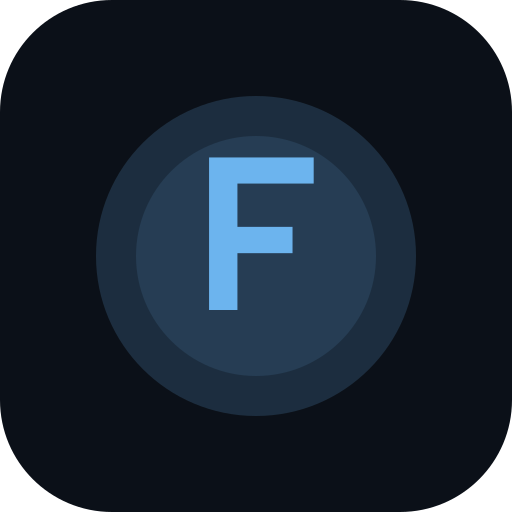
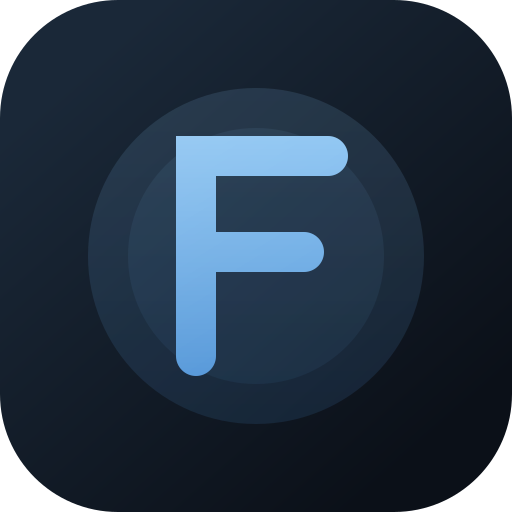
changes

diff --git a/src/components/CountdownView.tsx b/src/components/CountdownView.tsx
@@ -2,6 +2,7 @@ import type { Feriado } from '../types/feriado'
 import { capitalize, formatLongDate, parseFeriadoDate } from '../utils/dates'
 import { getCountdownSnapshot } from '../utils/countdown'
 import { TIPO_LABELS } from '../utils/feriados'
+import { Logo } from './Logo'
 
 interface CountdownViewProps {
   feriados: Feriado[]
@@ -12,8 +13,11 @@ export function CountdownView({ feriados }: CountdownViewProps) {
 
   if (!snapshot) {
     return (
-      <div className="flex flex-1 flex-col items-center justify-center px-6 pt-16 text-center">
-        <p className="text-lg text-app-muted">No hay más feriados cargados para este período.</p>
+      <div className="flex flex-1 flex-col items-center justify-center px-4 pt-20 text-center sm:px-6">
+        <Logo size="md" className="mb-8" />
+        <p className="text-base text-app-muted sm:text-lg">
+          No hay más feriados cargados para este período.
+        </p>
       </div>
     )
   }
@@ -22,31 +26,31 @@ export function CountdownView({ feriados }: CountdownViewProps) {
   const displayFeriado = feriados.find((f) => f.fecha === snapshot.feriadoFecha)
 
   return (
-    <div className="flex flex-1 flex-col px-6 pb-4 pt-16">
-      <header className="mb-10 text-center">
-        <p className="text-xs font-semibold uppercase tracking-[0.2em] text-celeste-soft">
-          Feriadapp
-        </p>
-        <h1 className="mt-2 text-lg font-medium text-app-muted">
+    <div className="flex flex-1 flex-col px-4 pb-4 pt-[max(4.5rem,calc(env(safe-area-inset-top)+3.5rem))] sm:px-6">
+      <header className="mx-auto mb-8 flex w-full max-w-sm flex-col items-center text-center sm:mb-10">
+        <Logo size="md" />
+        <h1 className="mt-5 text-base font-medium text-app-muted sm:text-lg">
           {snapshot.isToday ? 'Hoy es feriado' : 'Próximo feriado'}
         </h1>
       </header>
 
       <section className="flex flex-1 flex-col items-center justify-center">
-        <div className="relative flex h-48 w-48 items-center justify-center">
-          <div className="absolute inset-0 rounded-full bg-celeste/10 blur-2xl" />
+        <div className="relative flex aspect-square w-[min(72vw,16rem)] max-w-xs items-center justify-center sm:w-64">
+          <div className="absolute inset-[8%] rounded-full bg-celeste/10 blur-3xl" />
           <div className="relative text-center">
-            <span className="tabular-nums text-[5.5rem] font-extrabold leading-none tracking-tight text-app">
+            <span className="tabular-nums text-[clamp(3.75rem,22vw,5.75rem)] font-extrabold leading-none tracking-tight text-app">
               {snapshot.days}
             </span>
-            <p className="mt-2 text-sm font-medium uppercase tracking-widest text-app-muted">
+            <p className="mt-2 text-xs font-medium uppercase tracking-[0.25em] text-app-muted sm:text-sm">
               {snapshot.days === 1 ? 'día' : 'días'}
             </p>
           </div>
         </div>
 
-        <div className="mt-10 w-full max-w-sm rounded-3xl border border-app bg-app-elevated/80 p-6 text-center backdrop-blur-sm">
-          <p className="text-lg font-semibold leading-snug text-app">{snapshot.feriadoNombre}</p>
+        <div className="mt-8 w-full max-w-sm rounded-3xl border border-app bg-app-elevated/80 p-5 text-center backdrop-blur-sm sm:mt-10 sm:p-6">
+          <p className="text-base font-semibold leading-snug text-app sm:text-lg">
+            {snapshot.feriadoNombre}
+          </p>
           <p className="mt-2 text-sm capitalize text-app-muted">
             {capitalize(formatLongDate(feriadoDate))}
           </p>
@@ -59,7 +63,7 @@ export function CountdownView({ feriados }: CountdownViewProps) {
       </section>
 
       {!snapshot.isToday && (
-        <p className="mt-8 text-center text-xs text-app-muted/80">
+        <p className="mt-6 text-center text-[11px] text-app-muted/70 sm:mt-8 sm:text-xs">
           Datos oficiales según calendario nacional argentino
         </p>
       )}

diff --git a/src/components/InstallPrompt.tsx b/src/components/InstallPrompt.tsx
@@ -1,63 +1,32 @@
 import { usePwaInstall } from '../hooks/usePwaInstall'
-import {
-  getAndroidBrowserInstallSteps,
-  getIosInstallSteps,
-  isMobileBrowser,
-} from '../utils/pwa'
+import { isMobileBrowser } from '../utils/pwa'
 
 export function InstallPrompt() {
   const { showPrompt, isIos, install, dismiss } = usePwaInstall()
 
   if (!showPrompt) return null
 
-  const steps = isIos ? getIosInstallSteps() : getAndroidBrowserInstallSteps()
-  const title = isMobileBrowser()
-    ? 'Agregá Feriadapp a tu pantalla de inicio'
-    : 'Instalá Feriadapp como app'
-
   return (
-    <section className="mx-6 mb-4 overflow-hidden rounded-3xl border border-celeste/30 bg-gradient-to-br from-celeste/15 to-app-elevated/90 p-5 backdrop-blur-sm">
-      <div className="flex items-start gap-3">
-        <div className="flex h-10 w-10 shrink-0 items-center justify-center rounded-2xl bg-celeste text-btn">
-          <svg viewBox="0 0 24 24" fill="none" className="h-5 w-5" stroke="currentColor" strokeWidth="1.8">
-            <path d="M12 3v12M7 8l5-5 5 5" />
-            <path d="M5 21h14" />
-          </svg>
-        </div>
+    <div
+      className="fixed inset-x-0 z-40 mx-auto w-full max-w-md px-4 sm:max-w-lg sm:px-6"
+      style={{ bottom: 'calc(5.25rem + env(safe-area-inset-bottom))' }}
+    >
+      <div className="flex items-center gap-2 rounded-2xl border border-app bg-app-elevated/95 px-3 py-2.5 shadow-xl backdrop-blur-xl sm:gap-3 sm:px-4 sm:py-3">
+        <p className="min-w-0 flex-1 truncate text-xs text-app-muted sm:text-[13px]">
+          {isMobileBrowser() ? 'Agregá Feriadapp al inicio' : 'Instalá Feriadapp en tu dispositivo'}
+        </p>
 
-        <div className="min-w-0 flex-1">
-          <h2 className="text-sm font-semibold text-app">{title}</h2>
-          <p className="mt-1 text-xs leading-relaxed text-app-muted">
-            Funciona como app: contador, calendario, modo claro/oscuro y datos guardados sin conexión.
-          </p>
-
-          {!isIos && (
-            <button
-              type="button"
-              onClick={() => void install()}
-              className="mt-3 rounded-full bg-celeste px-4 py-2 text-xs font-semibold text-btn transition hover:opacity-90"
-            >
-              Instalar app
-            </button>
-          )}
-
-          {isIos && (
-            <ol className="mt-3 space-y-1.5 text-xs text-app-muted">
-              {steps.map((step, index) => (
-                <li key={step} className="flex gap-2">
-                  <span className="font-semibold text-celeste-soft">{index + 1}.</span>
-                  <span>{step}</span>
-                </li>
-              ))}
-            </ol>
-          )}
-
-          {!isIos && !isMobileBrowser() && (
-            <p className="mt-2 text-xs text-app-muted">
-              También podés usar el ícono de instalación en la barra de direcciones del navegador.
-            </p>
-          )}
-        </div>
+        {!isIos ? (
+          <button
+            type="button"
+            onClick={() => void install()}
+            className="shrink-0 rounded-full bg-celeste px-3 py-1.5 text-xs font-semibold text-btn transition hover:opacity-90"
+          >
+            Instalar
+          </button>
+        ) : (
+          <span className="shrink-0 text-[11px] font-medium text-celeste-soft">Safari → Compartir</span>
+        )}
 
         <button
           type="button"
@@ -70,19 +39,6 @@ export function InstallPrompt() {
           </svg>
         </button>
       </div>
-    </section>
-  )
-}
-
-export function PwaInstalledBadge() {
-  const { isInstalled } = usePwaInstall()
-
-  if (!isInstalled) return null
-
-  return (
-    <div className="mx-6 mb-4 flex items-center gap-2 rounded-2xl border border-app bg-app-surface/70 px-4 py-2.5">
-      <span className="h-2 w-2 rounded-full bg-puente" />
-      <p className="text-xs text-app-muted">App instalada en tu dispositivo</p>
     </div>
   )
 }

diff --git a/src/App.tsx b/src/App.tsx
@@ -3,10 +3,9 @@ import { BottomNav } from './components/BottomNav'
 import { CalendarView } from './components/CalendarView'
 import { CountdownView } from './components/CountdownView'
 import { ErrorState } from './components/ErrorState'
-import { InstallPrompt, PwaInstalledBadge } from './components/InstallPrompt'
+import { InstallPrompt } from './components/InstallPrompt'
 import { LoadingState } from './components/LoadingState'
 import { ThemeToggle } from './components/ThemeToggle'
-import { WidgetGuide } from './components/WidgetGuide'
 import { useFeriados } from './hooks/useFeriados'
 import { useWidgetSync } from './hooks/useWidgetSync'
 import type { TabId } from './types/feriado'
@@ -19,7 +18,7 @@ function App() {
   useWidgetSync(feriados, ready)
 
   return (
-    <div className="relative mx-auto flex min-h-dvh max-w-lg flex-col pb-24">
+    <div className="relative mx-auto flex min-h-dvh w-full max-w-md flex-col pb-[calc(5.5rem+env(safe-area-inset-bottom))] sm:max-w-lg md:max-w-xl">
       <ThemeToggle />
 
       {loading && <LoadingState />}
@@ -28,21 +27,18 @@ function App() {
         <>
           {activeTab === 'inicio' && (
             <>
-              <InstallPrompt />
-              <PwaInstalledBadge />
               {isOfflineData && (
-                <div className="mx-6 mb-4 rounded-2xl border border-app bg-app-surface/70 px-4 py-2.5 text-xs text-app-muted">
+                <div className="mx-4 mb-2 mt-[max(4.5rem,calc(env(safe-area-inset-top)+3.5rem))] rounded-2xl border border-app bg-app-surface/70 px-4 py-2.5 text-xs text-app-muted sm:mx-6">
                   Mostrando feriados guardados. Conectate para actualizar.
                 </div>
               )}
               <CountdownView feriados={feriados} />
-              <WidgetGuide />
             </>
           )}
           {activeTab === 'calendario' && (
             <>
               {isOfflineData && (
-                <div className="mx-4 mb-2 mt-14 rounded-2xl border border-app bg-app-surface/70 px-4 py-2.5 text-xs text-app-muted">
+                <div className="mx-4 mb-2 mt-[max(4.5rem,calc(env(safe-area-inset-top)+3.5rem))] rounded-2xl border border-app bg-app-surface/70 px-4 py-2.5 text-xs text-app-muted sm:mx-6">
                   Datos sin conexión — calendario desde caché local.
                 </div>
               )}
@@ -52,6 +48,7 @@ function App() {
         </>
       )}
 
+      <InstallPrompt />
       <BottomNav activeTab={activeTab} onTabChange={setActiveTab} />
     </div>
   )

diff --git a/src/components/Logo.tsx b/src/components/Logo.tsx
@@ -1,0 +1,68 @@
+type LogoSize = 'sm' | 'md' | 'lg'
+
+interface LogoProps {
+  size?: LogoSize
+  showWordmark?: boolean
+  className?: string
+}
+
+const sizeClasses: Record<LogoSize, { box: string; wordmark: string }> = {
+  sm: { box: 'h-9 w-9', wordmark: 'text-[10px]' },
+  md: { box: 'h-12 w-12 sm:h-14 sm:w-14', wordmark: 'text-[11px] sm:text-xs' },
+  lg: { box: 'h-16 w-16 sm:h-[4.5rem] sm:w-[4.5rem]', wordmark: 'text-xs sm:text-sm' },
+}
+
+export function Logo({ size = 'md', showWordmark = true, className = '' }: LogoProps) {
+  const { box, wordmark } = sizeClasses[size]
+
+  return (
+    <div className={`flex flex-col items-center justify-center gap-2.5 ${className}`}>
+      <div
+        className={`relative flex shrink-0 items-center justify-center rounded-[22%] ${box}`}
+        aria-hidden="true"
+      >
+        <div className="absolute inset-0 rounded-[22%] bg-celeste/15 blur-md" />
+        <svg
+          viewBox="0 0 48 48"
+          fill="none"
+          className="relative h-full w-full drop-shadow-[0_8px_24px_rgba(108,180,238,0.25)]"
+          role="img"
+          aria-label="Feriadapp"
+        >
+          <defs>
+            <linearGradient id="logo-bg" x1="8" y1="6" x2="40" y2="42" gradientUnits="userSpaceOnUse">
+              <stop stopColor="var(--logo-bg-start, #1e2838)" />
+              <stop offset="1" stopColor="var(--logo-bg-end, #151c28)" />
+            </linearGradient>
+            <linearGradient id="logo-f" x1="14" y1="10" x2="34" y2="38" gradientUnits="userSpaceOnUse">
+              <stop stopColor="#a8d4f5" />
+              <stop offset="1" stopColor="#6cb4ee" />
+            </linearGradient>
+          </defs>
+          <rect width="48" height="48" rx="13" fill="url(#logo-bg)" />
+          <rect
+            x="0.75"
+            y="0.75"
+            width="46.5"
+            height="46.5"
+            rx="12.25"
+            stroke="url(#logo-f)"
+            strokeOpacity="0.35"
+          />
+          <path
+            d="M16 14h14.5c1.1 0 2 .9 2 2s-.9 2-2 2H20v7h9.5c1.1 0 2 .9 2 2s-.9 2-2 2H20v9c0 1.1-.9 2-2 2s-2-.9-2-2V14z"
+            fill="url(#logo-f)"
+          />
+        </svg>
+      </div>
+
+      {showWordmark && (
+        <span
+          className={`${wordmark} font-bold uppercase tracking-[0.28em] text-celeste-soft`}
+        >
+          Feriadapp
+        </span>
+      )}
+    </div>
+  )
+}

diff --git a/src/components/CalendarView.tsx b/src/components/CalendarView.tsx
@@ -54,12 +54,9 @@ export function CalendarView({ feriados }: CalendarViewProps) {
     : undefined
 
   return (
-    <div className="flex flex-1 flex-col gap-6 px-4 pb-8 pt-16">
+    <div className="flex flex-1 flex-col gap-5 px-4 pb-8 pt-[max(4.5rem,calc(env(safe-area-inset-top)+3.5rem))] sm:gap-6 sm:px-6">
       <header>
-        <p className="text-xs font-semibold uppercase tracking-[0.2em] text-celeste-soft">
-          Calendario
-        </p>
-        <h1 className="mt-1 text-2xl font-bold text-app">Feriados {today.getFullYear()}</h1>
+        <h1 className="text-xl font-bold text-app sm:text-2xl">Feriados {today.getFullYear()}</h1>
       </header>
 
       <section className="rounded-3xl border border-app bg-app-elevated/70 p-4">

diff --git a/src/components/LoadingState.tsx b/src/components/LoadingState.tsx
@@ -4,7 +4,7 @@ interface LoadingStateProps {
 
 export function LoadingState({ message = 'Cargando feriados...' }: LoadingStateProps) {
   return (
-    <div className="flex flex-1 flex-col items-center justify-center gap-4 px-6 py-20 pt-24">
+    <div className="flex flex-1 flex-col items-center justify-center gap-4 px-4 py-20 pt-[max(5rem,calc(env(safe-area-inset-top)+4rem))] sm:px-6">
       <div className="h-10 w-10 animate-spin rounded-full border-2 border-celeste/30 border-t-celeste" />
       <p className="text-sm text-app-muted">{message}</p>
     </div>

diff --git a/src/components/ErrorState.tsx b/src/components/ErrorState.tsx
@@ -5,7 +5,7 @@ interface ErrorStateProps {
 
 export function ErrorState({ message, onRetry }: ErrorStateProps) {
   return (
-    <div className="flex flex-1 flex-col items-center justify-center gap-4 px-6 py-20 pt-24 text-center">
+    <div className="flex flex-1 flex-col items-center justify-center gap-4 px-4 py-20 pt-[max(5rem,calc(env(safe-area-inset-top)+4rem))] text-center sm:px-6">
       <div className="rounded-2xl bg-app-elevated px-5 py-4 text-sm text-app-muted">{message}</div>
       <button
         type="button"

diff --git a/src/components/BottomNav.tsx b/src/components/BottomNav.tsx
@@ -30,7 +30,7 @@ const tabs: { id: TabId; label: string; icon: React.ReactNode }[] = [
 export function BottomNav({ activeTab, onTabChange }: BottomNavProps) {
   return (
     <nav className="fixed inset-x-0 bottom-0 z-50 border-t border-app bg-nav backdrop-blur-xl pb-[env(safe-area-inset-bottom)]">
-      <div className="mx-auto flex max-w-lg">
+      <div className="mx-auto flex w-full max-w-md sm:max-w-lg md:max-w-xl">
         {tabs.map((tab) => {
           const isActive = activeTab === tab.id
 

diff --git a/src/index.css b/src/index.css
@@ -32,6 +32,8 @@
   --c-app-gradient-2: rgb(167 139 250 / 0.08);
   --c-btn-text: #0b1018;
   --color-celeste-soft: #a8d4f5;
+  --logo-bg-start: #1e2838;
+  --logo-bg-end: #151c28;
   color-scheme: dark;
 }
 
@@ -49,6 +51,8 @@
   --c-app-gradient-2: rgb(108 180 238 / 0.08);
   --c-btn-text: #ffffff;
   --color-celeste-soft: #3b82c4;
+  --logo-bg-start: #ffffff;
+  --logo-bg-end: #eef4fa;
   color-scheme: light;
 }
 
